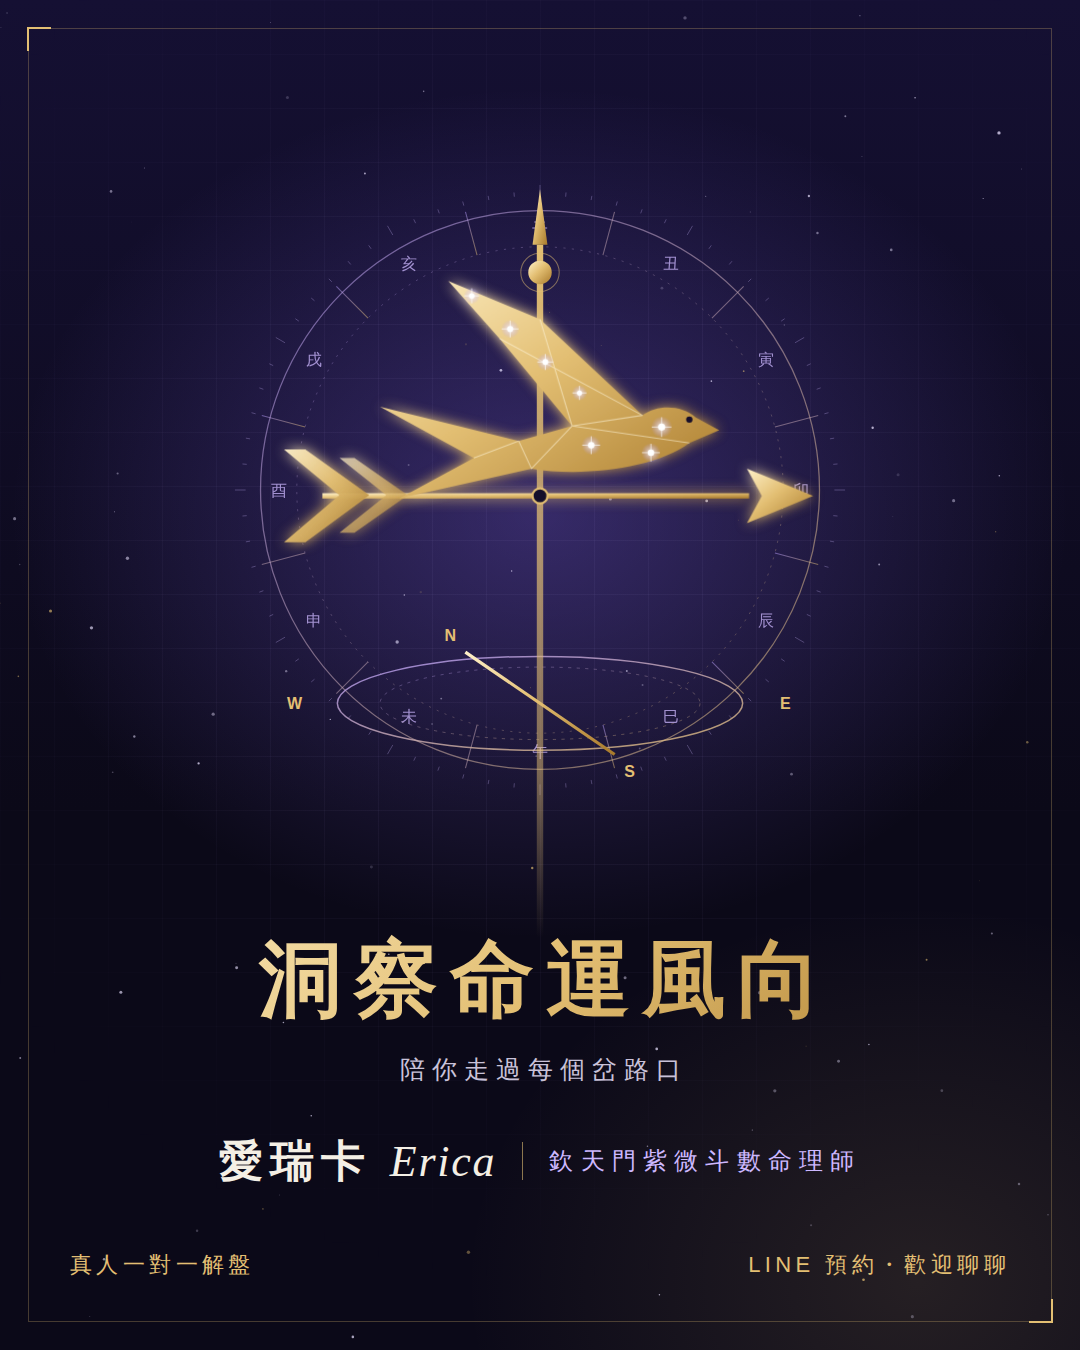
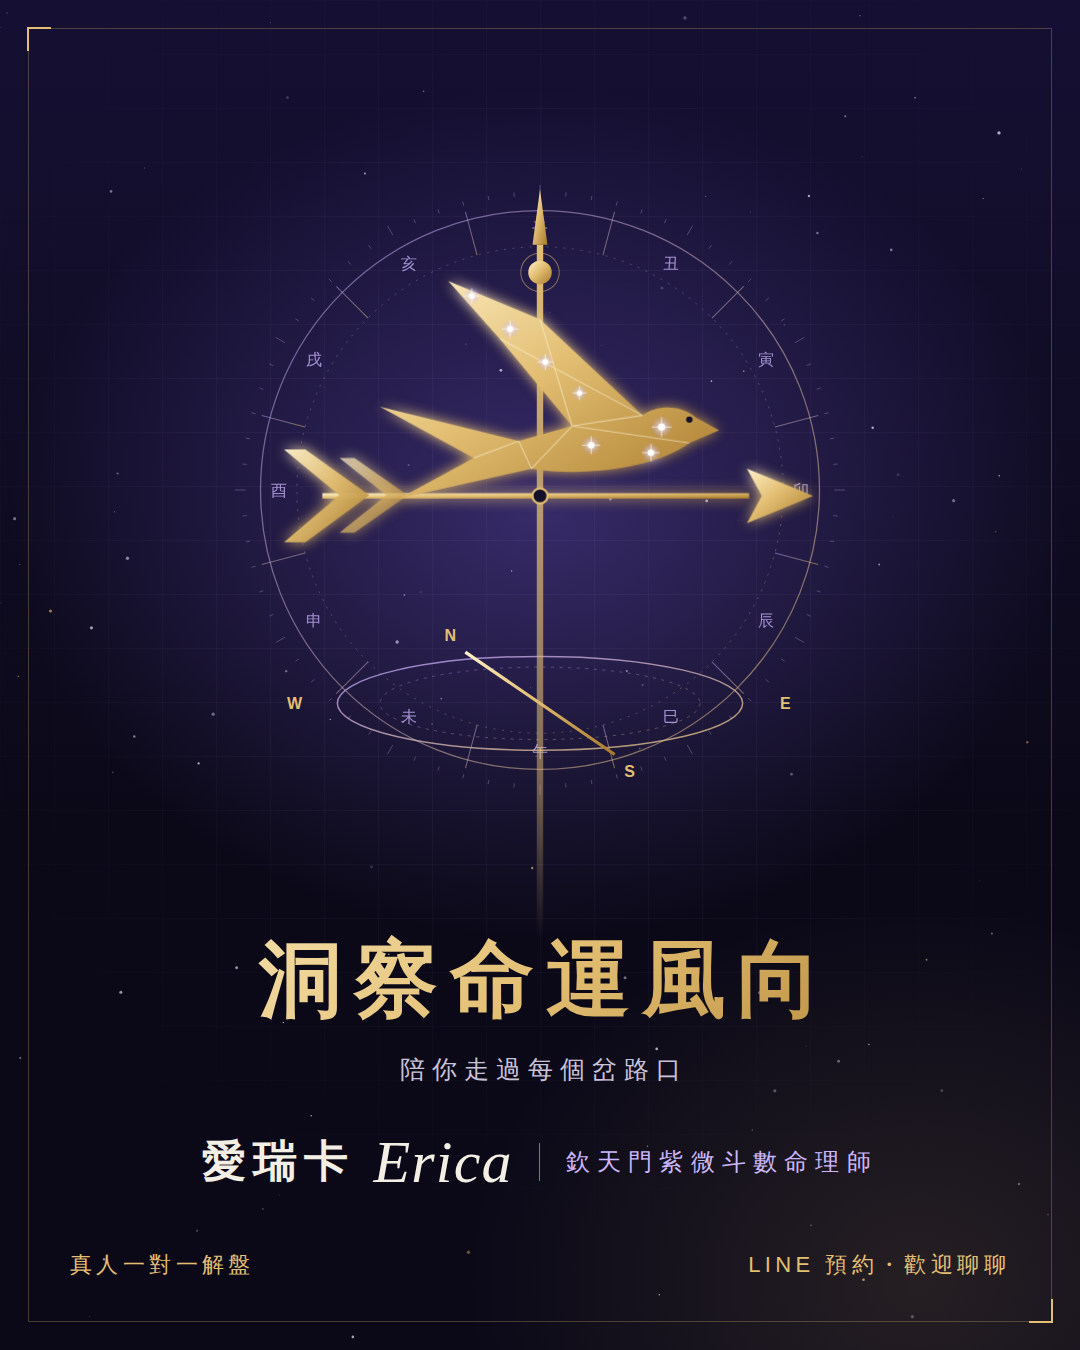
Poster: size Erica to match 愛瑞卡 visually
Claude-Session: https://claude.ai/code/session_01WeWVZ5r8UiL42UXgK61AKB

Changed region(s): [[0.1833, 0.84, 0.825, 0.9022]]

diff --git a/line-oa/design/poster.html b/line-oa/design/poster.html
@@ -14,7 +14,7 @@
 .sub{margin-top:22px;font-size:25px;letter-spacing:.28em;color:var(--ink-mid);font-weight:300;padding-left:.28em}
 .name{margin-top:46px;display:inline-flex;align-items:center;gap:26px;font-family:'Noto Serif TC',serif}
 .name b{font-size:44px;font-weight:700;letter-spacing:.16em}
-.name em{font-family:'Cormorant Garamond',serif;font-style:italic;font-weight:500;font-size:44px;letter-spacing:.04em;color:var(--ink);margin-left:-8px}
+.name em{font-family:'Cormorant Garamond',serif;font-style:italic;font-weight:500;font-size:60px;line-height:1;letter-spacing:.02em;color:var(--ink);margin-left:-8px}
 .name i{font-style:normal;width:1px;height:38px;background:var(--gold);opacity:.6}
 .name span{font-size:24px;letter-spacing:.3em;color:var(--violet-lt)}
 .foot{position:absolute;left:70px;right:70px;bottom:70px;display:flex;justify-content:space-between;align-items:flex-end;
